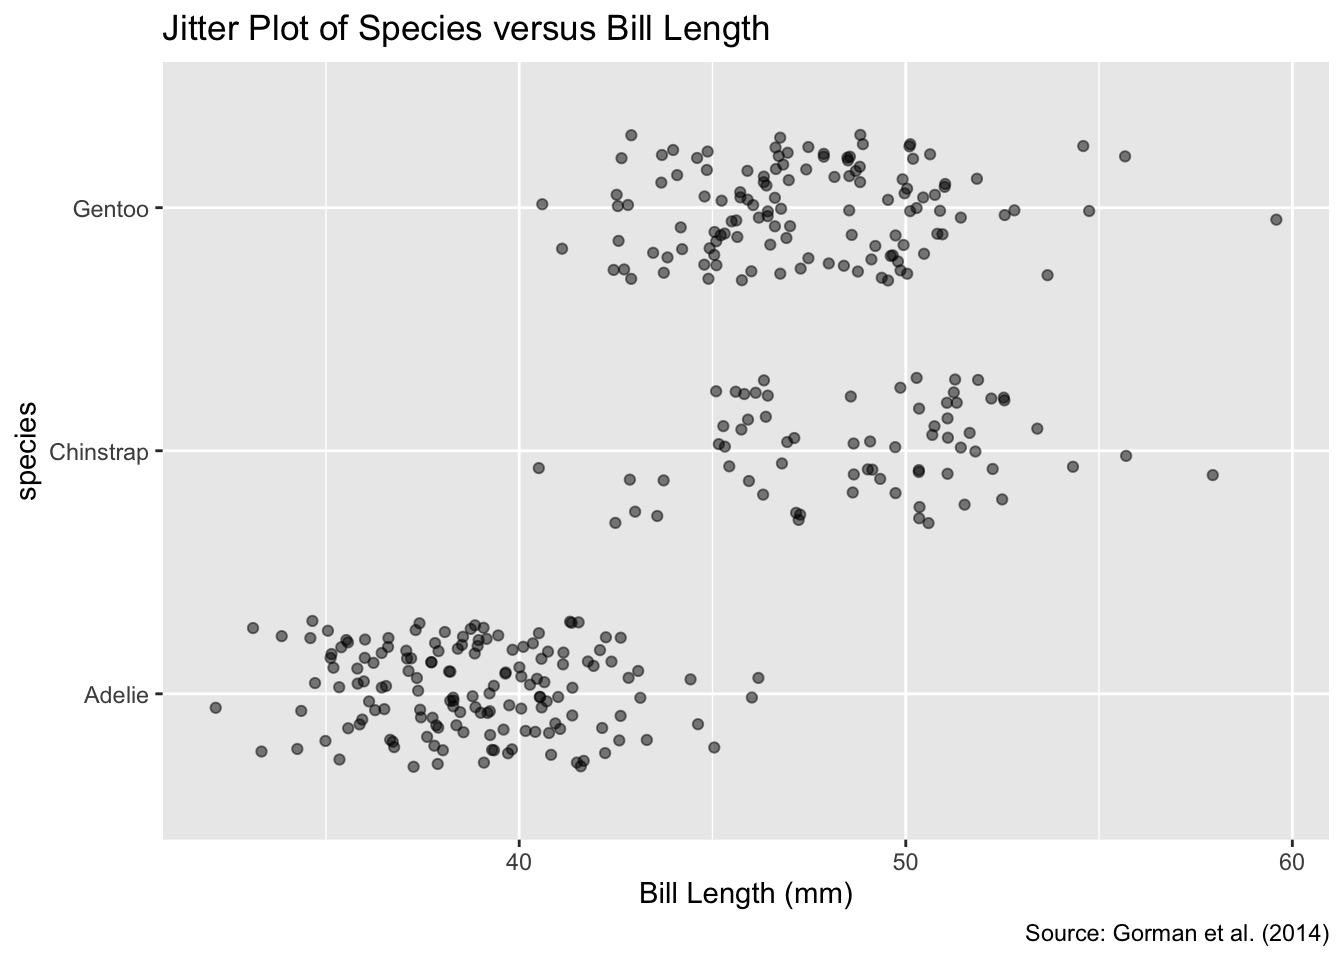
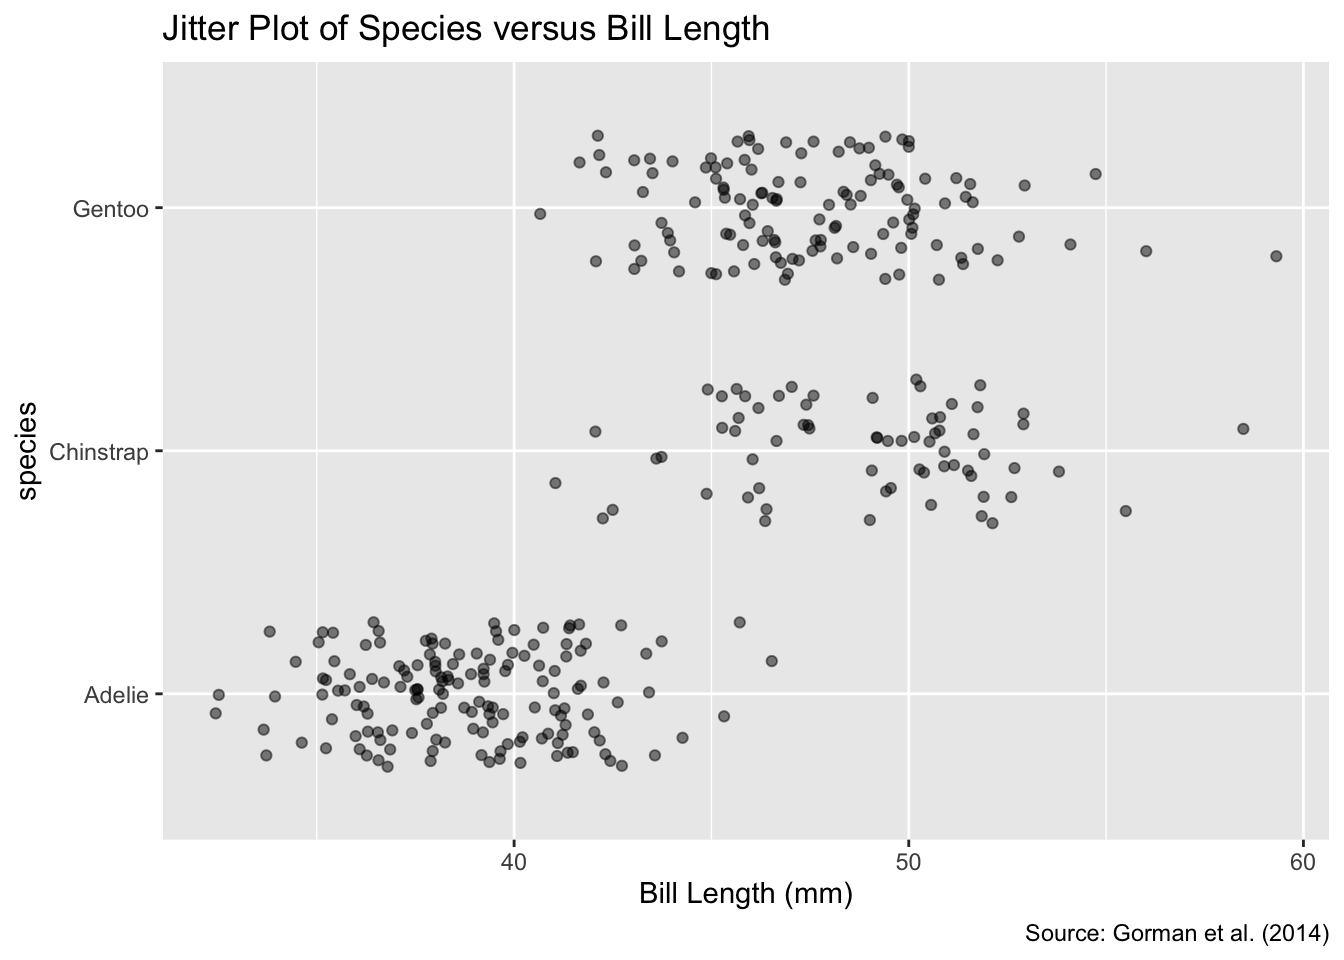
updated lab 4

diff --git a/Lab04/Lab04.html b/Lab04/Lab04.html
@@ -116,6 +116,7 @@ pre > code.sourceCode > span > a:first-child::before { text-decoration: underlin
 <h1>2. Visualizing the Distribution of Quantitative Data: Bill Lengths of Pygoscelis Penguins</h1>
 <section id="remove-missing-values" class="level2">
 <h2 class="anchored" data-anchor-id="remove-missing-values">2.1 Remove Missing Values</h2>
+<p>Remove the penguins with missing bill length measurements from the <code>penguins</code> tibble to avoid ggplot2 warning messages in subsequent tasks.</p>
 <div class="cell">
 <details class="code-fold">
 <summary>Code</summary>
@@ -132,6 +133,7 @@ pre > code.sourceCode > span > a:first-child::before { text-decoration: underlin
 </section>
 <section id="scatter-plot-of-species-versus-bill-length" class="level2">
 <h2 class="anchored" data-anchor-id="scatter-plot-of-species-versus-bill-length">2.2 Scatter Plot of Species versus Bill Length</h2>
+<p>Create a scatter plot displaying bill length on the x-axis and species on the y-axis. For this task and all subsequent ones, customize the axis labels and add a plot title. Additionally, include a plot caption attributing the source as “Gorman et al.&nbsp;(2014)”.</p>
 <div class="cell">
 <details class="code-fold">
 <summary>Code</summary>
@@ -154,6 +156,7 @@ pre > code.sourceCode > span > a:first-child::before { text-decoration: underlin
 </section>
 <section id="why-should-you-jitter-the-plot" class="level2">
 <h2 class="anchored" data-anchor-id="why-should-you-jitter-the-plot">2.3 Why Should You Jitter the Plot?</h2>
+<p>Which feature of the data suggests that jittering the scatter plot might be beneficial? (Hint: Show that individuals cannot be uniquely identified by their bill length and species.)</p>
 <div class="cell">
 <details class="code-fold">
 <summary>Code</summary>
@@ -177,6 +180,7 @@ pre > code.sourceCode > span > a:first-child::before { text-decoration: underlin
 </section>
 <section id="jitter-plot" class="level2">
 <h2 class="anchored" data-anchor-id="jitter-plot">2.4 Jitter Plot</h2>
+<p>Create a jitter plot displaying bill length on the x-axis and species on the y-axis. Reduce the opacity of the points and adjust the <code>width</code> and <code>height</code> arguments so that points are only jittered in the y-direction while ensuring that the points for different species are clearly separated.</p>
 <div class="cell">
 <details class="code-fold">
 <summary>Code</summary>
@@ -199,6 +203,7 @@ pre > code.sourceCode > span > a:first-child::before { text-decoration: underlin
 </section>
 <section id="bee-swarm-plot" class="level2">
 <h2 class="anchored" data-anchor-id="bee-swarm-plot">2.5 Bee-Swarm Plot</h2>
+<p>Use the <code>geom_beeswarm()</code> function from the ggbeeswarm package to produce a bee-swarm plot illustrating the distribution of bill lengths for each species. Display bill length on the x-axis and species on the y-axis.</p>
 <div class="cell">
 <details class="code-fold">
 <summary>Code</summary>
@@ -221,10 +226,14 @@ pre > code.sourceCode > span > a:first-child::before { text-decoration: underlin
 </section>
 <section id="pros-and-cons-of-bee-swarm-plots" class="level2">
 <h2 class="anchored" data-anchor-id="pros-and-cons-of-bee-swarm-plots">2.6 Pros and Cons of Bee-Swarm Plots</h2>
-<p><strong>Advantage:</strong> - Bee-Swarm plots are useful for visualizing the distribution of a quantitative variable across different categories. They are especially useful when the number of data points is large.<br> <strong>Disadvantage:</strong> - Bee-Swarm plots can be computationally expensive to create and may not be suitable for very large datasets. With large datasets, meaning there will be a lot of data points, the data points being like a bee will be overlapped and hence the plot will be hard to interpret.</p>
+<blockquote class="blockquote">
+<p>State one advantage and one disadvantage of using a bee-swarm plot rather than a jitter plot for these data?</p>
+</blockquote>
+<p><strong>Advantage: -</strong> Bee-Swarm plots are useful for visualizing the distribution of a quantitative variable across different categories. They are especially useful when the number of data points is large.<br> <strong>Disadvantage: -</strong> Bee-Swarm plots can be computationally expensive to create and may not be suitable for very large datasets. With large datasets, meaning there will be a lot of data points, the data points being like a bee will be overlapped and hence the plot will be hard to interpret.</p>
 </section>
 <section id="violin-plot-with-boxes" class="level2">
 <h2 class="anchored" data-anchor-id="violin-plot-with-boxes">2.7 Violin Plot with Boxes</h2>
+<p>Combine a violin plot and a box plot in one graph. The plot should display bill length on the x-axis and species on the y-axis.</p>
 <div class="cell">
 <details class="code-fold">
 <summary>Code</summary>
@@ -248,6 +257,7 @@ pre > code.sourceCode > span > a:first-child::before { text-decoration: underlin
 </section>
 <section id="frequency-polygons-with-rug-plot" class="level2">
 <h2 class="anchored" data-anchor-id="frequency-polygons-with-rug-plot">2.8 Frequency Polygons with Rug Plot</h2>
+<p>Display the bill-length distribution of each species as a frequency polygon, using a bin width of your choice. Combine all three frequency polygons into one coordinate system using a color aesthetic. Place a rug plot below the x-axis to show the distribution of individual data points with corresponding colors.</p>
 <div class="cell">
 <details class="code-fold">
 <summary>Code</summary>
@@ -272,6 +282,7 @@ pre > code.sourceCode > span > a:first-child::before { text-decoration: underlin
 </section>
 <section id="faceted-frequency-polygons-with-rug-plots" class="level2">
 <h2 class="anchored" data-anchor-id="faceted-frequency-polygons-with-rug-plots">2.9 Faceted Frequency Polygons with Rug Plots</h2>
+<p>Produce a faceted plot that displays the bill-length distribution of each species in a separate facet, using the same bin width as in the previous task. Add a rug plot below each frequency polygon.</p>
 <div class="cell">
 <details class="code-fold">
 <summary>Code</summary>
@@ -297,10 +308,14 @@ pre > code.sourceCode > span > a:first-child::before { text-decoration: underlin
 </section>
 <section id="pro-and-con-of-faceting" class="level2">
 <h2 class="anchored" data-anchor-id="pro-and-con-of-faceting">2.10 Pro and Con of Faceting</h2>
+<blockquote class="blockquote">
+<p>State one strength and one weakness of the faceted plot in the previous task compared to the earlier non-faceted frequency polygons with rug plot.</p>
+</blockquote>
 <p><strong>Advantage:</strong> - Faceting allows you to compare the distribution of a quantitative variable across different categories. This can be useful for identifying patterns or trends that may not be apparent when the data are combined.<br> <strong>Disadvantage:</strong> - Faceting is not recommended for time series data when doing a comparison of how the trendline moves over time. Combining each line into one coordinate system will make it easier to see the comparison.</p>
 </section>
 <section id="unmarked-bonus-question-pairwise-t-test" class="level2">
 <h2 class="anchored" data-anchor-id="unmarked-bonus-question-pairwise-t-test">2.11 Unmarked Bonus Question: Pairwise <em>t</em>-Test</h2>
+<p>All plots above suggest that the bill length of the Adélie penguin is shorter than that of the gentoo and chinstrap penguins. Let us support this observation quantitatively: 1. Calculate the mean bill length for each species. 2. Perform a pairwise <em>t</em>-test using R. Report the <em>p</em>-value and interpret the result using a significance level of <em>a</em> = 0.05.</p>
 <div class="cell">
 <details class="code-fold">
 <summary>Code</summary>
@@ -371,6 +386,8 @@ Gentoo      TRUE      TRUE</code></pre>
 </div>
 <section id="bar-chart-of-travelers-by-class" class="level2">
 <h2 class="anchored" data-anchor-id="bar-chart-of-travelers-by-class">3.1 Bar Chart of Travelers by Class</h2>
+<p>Create a bar chart displaying the number of travelers by class (1st, 2nd, 3rd, and crew). Include a plot title and a caption attributing the source as “Encyclopedia Titanica (2023).” Aim for a solution similar to Figure 3.1.</p>
+<p>Hint: You may find it easier to aggregate the number of passenger using <code>count()</code> before calling <code>ggplot()</code>.</p>
 <div class="cell">
 <details class="code-fold">
 <summary>Code</summary>
@@ -399,6 +416,7 @@ Gentoo      TRUE      TRUE</code></pre>
 </section>
 <section id="dodged-bar-chart-of-travelers-by-class-and-survival" class="level2">
 <h2 class="anchored" data-anchor-id="dodged-bar-chart-of-travelers-by-class-and-survival">3.2 Dodged Bar Chart of Travelers by Class and Survival</h2>
+<p>Use a dodged bar chart to visualize the dependence of the survival rate on the class in which a person traveled. Aim for a solution similar to Figure 3.2.</p>
 <div class="cell" data-label="dodged_bar_chart">
 <details class="code-fold">
 <summary>Code</summary>
@@ -427,6 +445,8 @@ Gentoo      TRUE      TRUE</code></pre>
 </section>
 <section id="mosaic-plot" class="level2">
 <h2 class="anchored" data-anchor-id="mosaic-plot">3.3 Mosaic Plot</h2>
+<p>When working with two categorical variables, such as class and survival, mosaic plots provide an alternative to segmented bar charts. Use the <code>geom_mosaic()</code> function from the ggmosaic package to create a mosaic plot of the data in <code>titanic</code>. Aim for a solution similar to Figure 3.3.</p>
+<p>This task requires some hacking skills. Look at the documentation for <code>geom_mosaic()</code>. A hint for printing the number of travelers in each category at the center of the corresponding mosaic tile can be found on Stack Overflow.</p>
 <div class="cell">
 <details class="code-fold">
 <summary>Code</summary>
@@ -453,6 +473,9 @@ Gentoo      TRUE      TRUE</code></pre>
 </section>
 <section id="pros-and-cons-of-mosaic-plots" class="level2">
 <h2 class="anchored" data-anchor-id="pros-and-cons-of-mosaic-plots">3.4 Pros and Cons of Mosaic Plots</h2>
+<blockquote class="blockquote">
+<p>State one advantage and one disadvantage of using the mosaic plot in Figure 3.3 instead of the dodged bar chart in Figure 3.2 for the Titanic data.</p>
+</blockquote>
 <p><strong>Advantage:</strong> - The mosaic plot provides a clearer view of how survival rates vary across passenger classes, making comparisons easier.<br> <strong>Disadvantage:</strong> - It might not give as precise numerical information as a dodged bar chart.</p>
 </section>
 </section>
